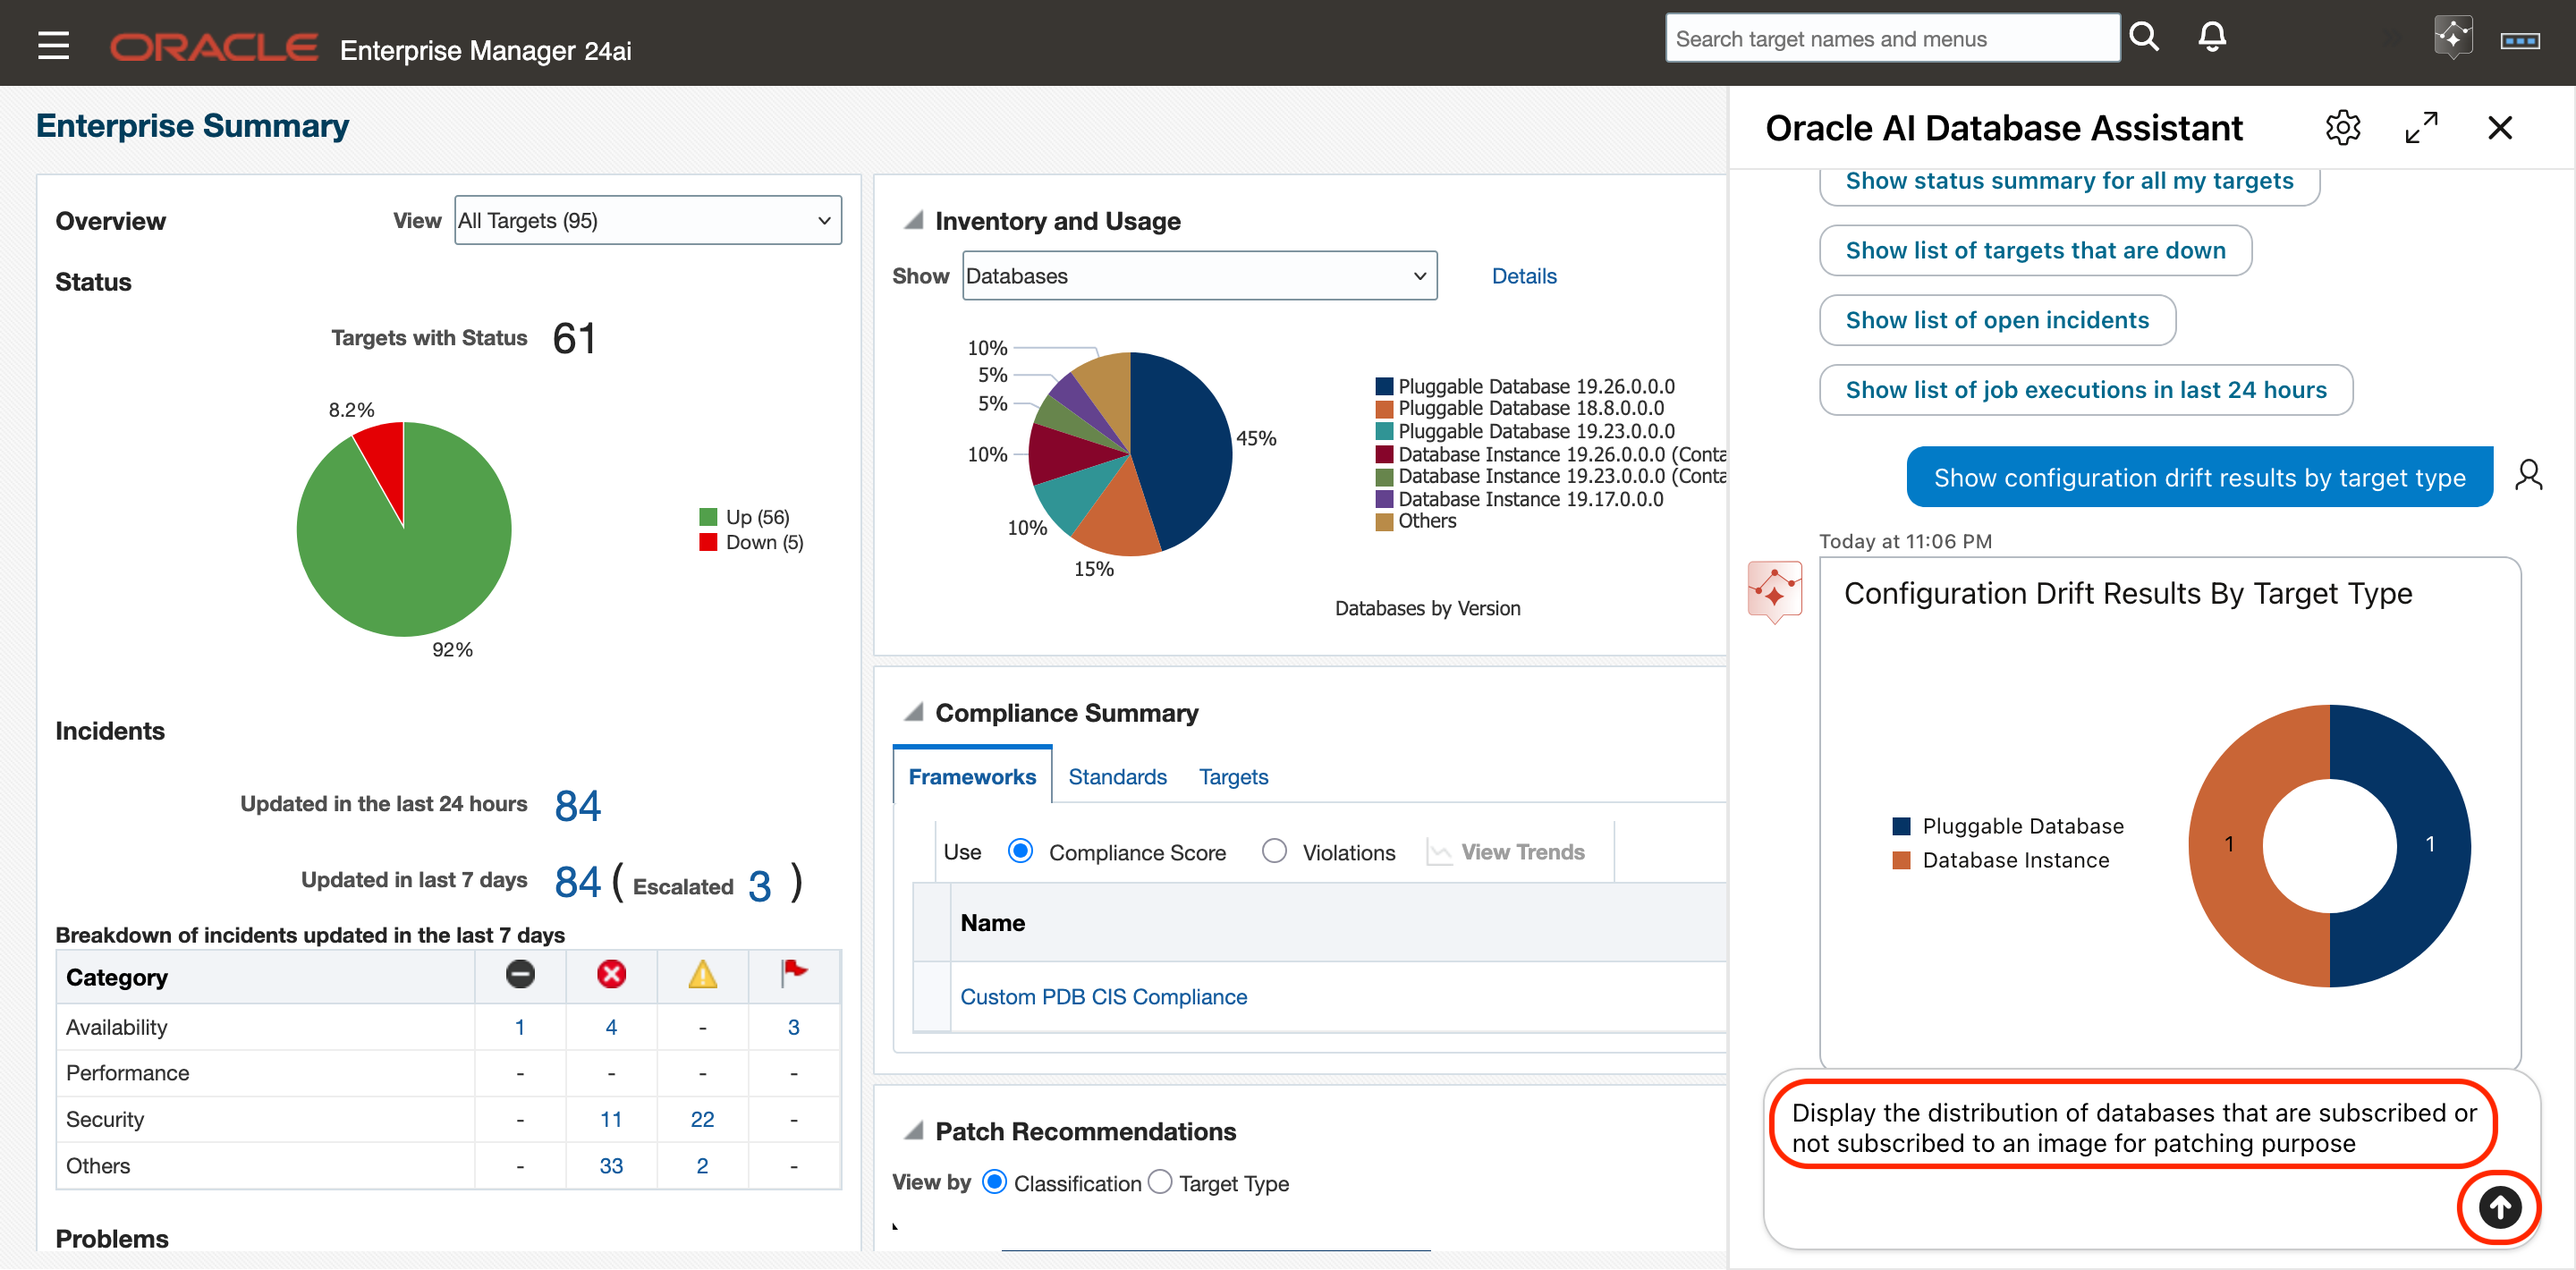
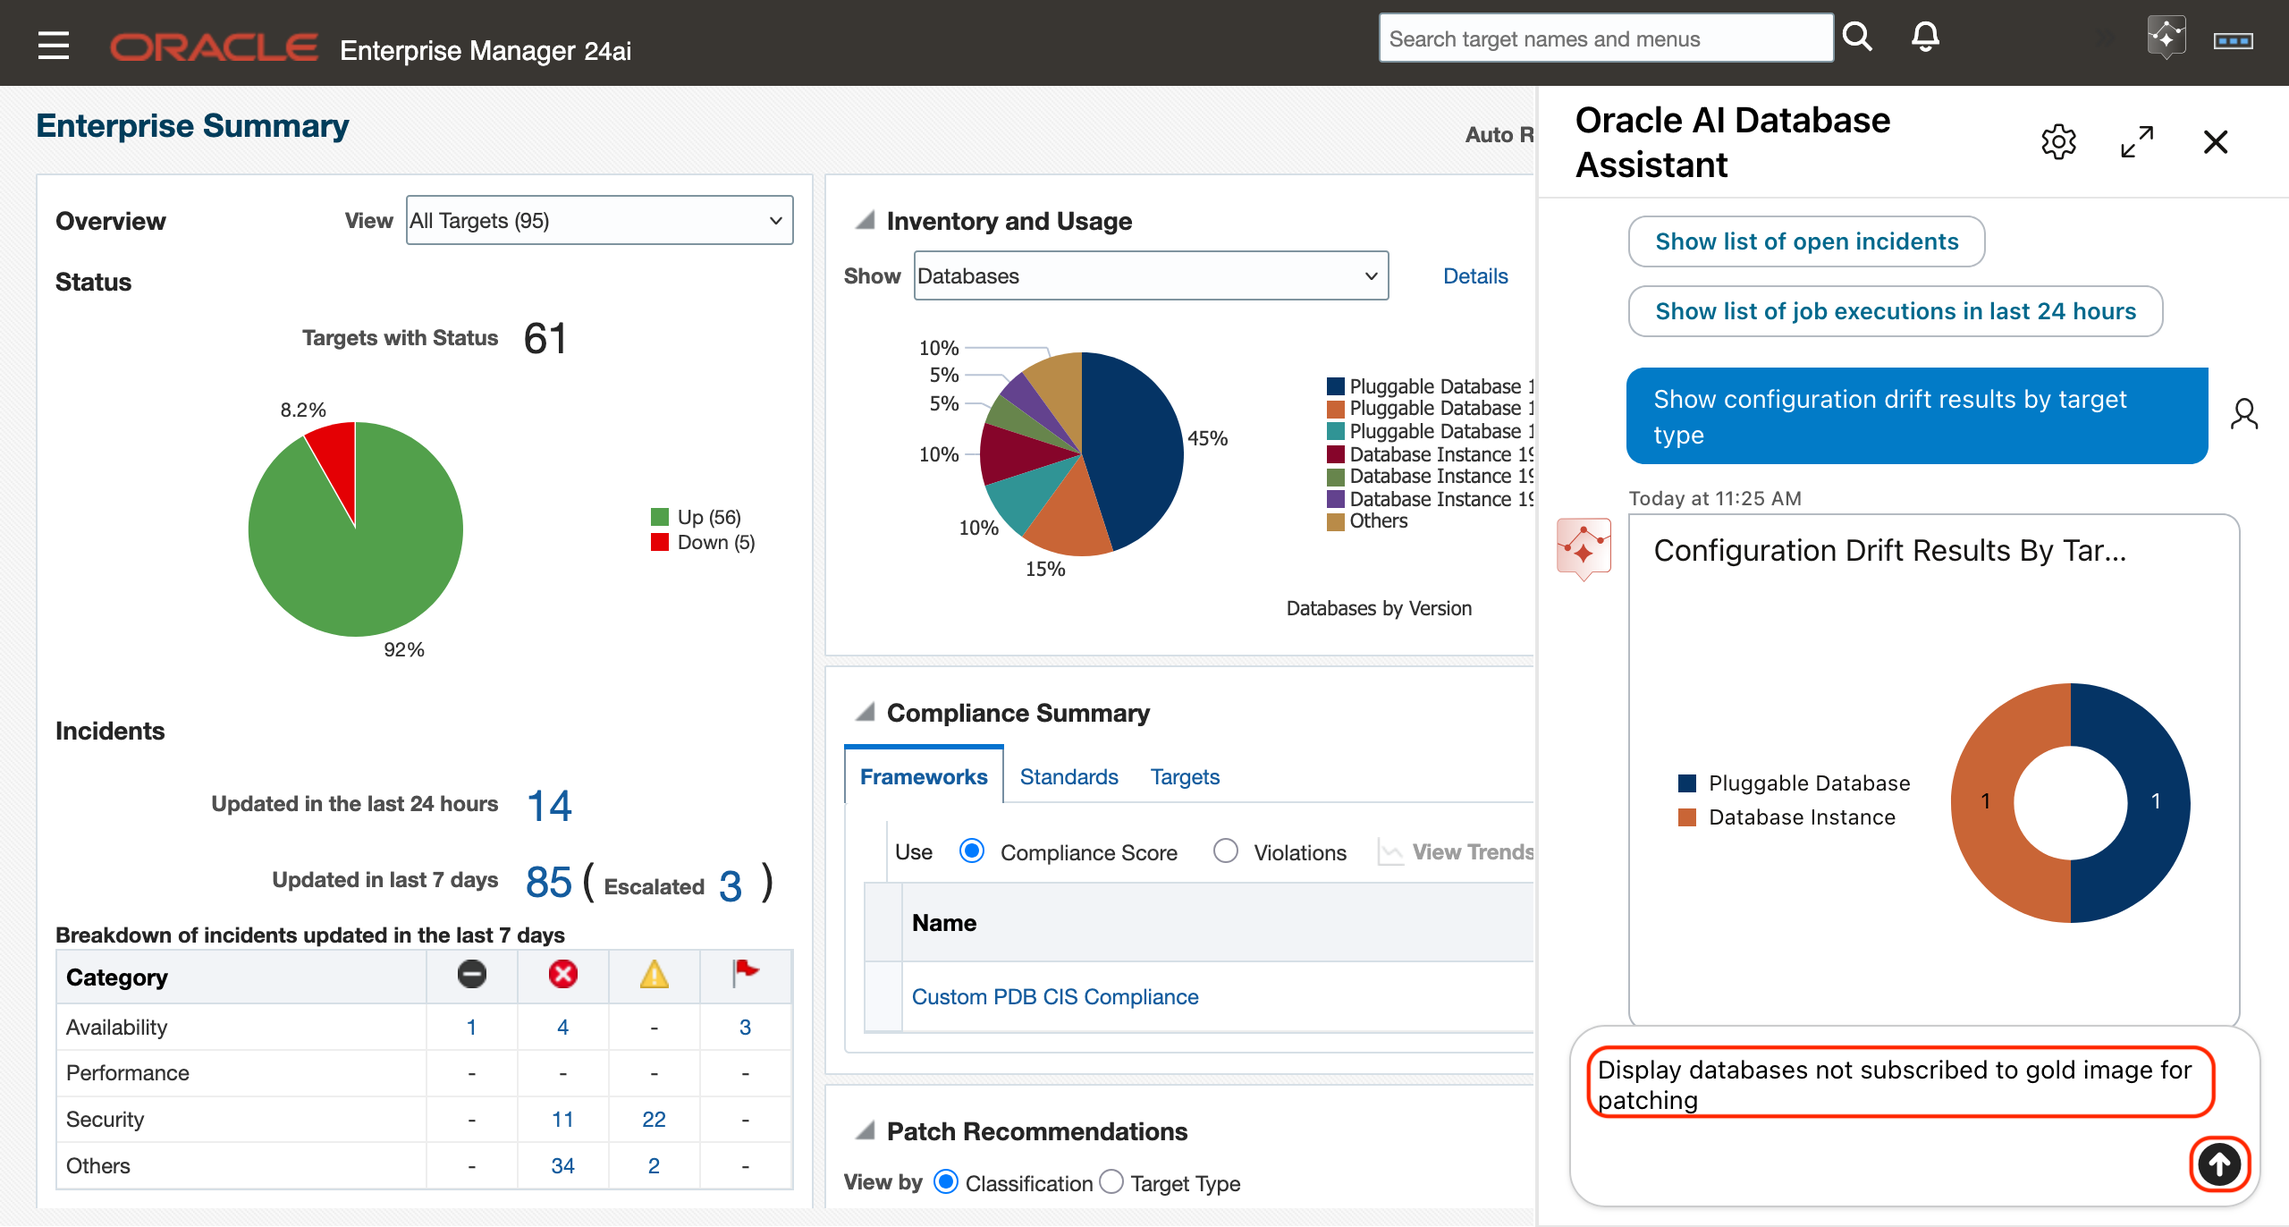
Ask EM - DBLM Lab Changes
Ask EM - DBLM Lab Changes

diff --git a/enterprise-manager/em24ai/em-monitoring-overview/ai-db-assistant-hol-ocw26.md b/enterprise-manager/em24ai/em-monitoring-overview/ai-db-assistant-hol-ocw26.md
@@ -147,71 +147,97 @@ The assistant can return rich widgets, tables, and visualizations directly withi
 
 ## Task 1B: Oracle AI Database Assistant - Database Patching and Compliance
 
-Oracle AI Database Assistant combines Enterprise Manager telemetry with Large Language Models (LLMs) to provide an intuitive conversational experience for monitoring and operational investigations. Instead of manually searching through Enterprise Manager pages, administrators can ask questions related to database patching and compliance to understand the security posture at fleet level. 
+Oracle AI Database Assistant combines Enterprise Manager telemetry with Large Language Models (LLMs) to provide an intuitive conversational experience for monitoring and operational investigations.
+
+In this task, you use the assistant to assess database fleet readiness before a patch window and verify patch compliance after patching. 
+Instead of navigating multiple Enterprise Manager pages, you ask targeted questions in the chat window and use the results to identify drift, missing image subscriptions, patch recommendations, compliance gaps, and critical violations.
+
+The prompts in these tasks are organized into two sections:
+* **Steps 1–3:** Assess patching readiness before the patch window.
+* **Steps 4–5:** Verify compliance after patching is complete.
 
 
-1. In the Oracle AI Database Assistant chat window enter **Show configuration drift results by target type** and hit `<`enter`>`:
+1. Review **configuration drift**
+
+    Configuration drift can indicate that a target no longer matches its approved configuration baseline. Review drift before patching so that you can resolve or document exceptions.
+
+    In the **Oracle AI Database Assistant chat window, enter the following prompt and press Enter:**
     ```
     <copy>
     Show configuration drift results by target type
     </copy>
     ```
 
-    Before the patch window, assess whether targets have drifted from their approved configuration baselines. Resolve or document exceptions so patching begins from a known state.
-   
     ![Configuration Drift Question](ai-db-assistant-images/ai-db-assistant-dblm/configuration-drift-question.png " ")
+
+    Review the results by target type.
     ![Configuration Drift Results](ai-db-assistant-images/ai-db-assistant-dblm/configuration-drift-results.png " ")
 
-2. Enter the prompt **Display the distribution of databases that are subscribed or not subscribed to an image for patching purpose** in the chat window and hit `<`enter`>`: 
+2. Check **database subscriptions to gold images**
 
+    Databases must be subscribed to an appropriate gold image to participate in a standardized fleet maintenance patching process. Identify databases that are not subscribed and enroll them before patching.
+
+    In the chat window, **enter the following prompt and press Enter:**
     ```
     <copy>
-    Display the distribution of databases that are subscribed or not subscribed to an image for patching purpose
+    Display databases not subscribed to gold image for patching
     </copy>
     ```
-
-    Next, confirm patching readiness. Databases not subscribed to a patching image need to be enrolled before they can participate in the standardized fleet maintenance patch process.
 
     ![Database subscriptions to the image question](ai-db-assistant-images/ai-db-assistant-dblm/db-subcription-question.png " ")
+
+    Review the distribution of subscribed and unsubscribed databases.
     ![Database subscriptions to the image result](ai-db-assistant-images/ai-db-assistant-dblm/db-subcription-result.png " ")
 
-3. Enter the prompt **Display the distribution of database images that are up-to-date or have patch recommendations** in the chat window and hit `<`enter`>`:
+3. Review **patch recommendations**
 
+    Patch recommendations are grouped by classification to help you understand the type and scope of patches required across the database fleet.
+
+    Use these recommendations to update the appropriate gold images. Create a new version of the gold image with the recommended patches so that it is ready for use during the patching cycle.
+
+    In the chat window, **enter the following prompt and press Enter:**
     ```
     <copy>
-    Display the distribution of database images that are up-to-date or have patch recommendations
+    Display the distribution of patch recommendations
     </copy>
     ```
 
-    Review the database images and identify those requiring recommended patches. Update or approve the appropriate image for patching cycle.
+    ![Database patch recommendations](ai-db-assistant-images/ai-db-assistant-dblm/db-patchrecom-question.png " ")
 
-    ![Database images question](ai-db-assistant-images/ai-db-assistant-dblm/dbimage-question.png " ")
-    ![Database images that are latest](ai-db-assistant-images/ai-db-assistant-dblm/dbimage-result.png " ")
+    Review the distribution of patch recommendations by classification.
 
-4. Enter the prompt **Display the distribution of databases that are compliant** in the chat window and hit `<`enter`>`
+    ![Database subscriptions to the image question](ai-db-assistant-images/ai-db-assistant-dblm/db-patchrecom-result.png " ")
 
+4. Review **database patch compliance** once the patching cycle completes
+
+    Evaluate the fleet after patching to confirm how many databases are patch compliant.
+
+    In the chat window, **enter the following prompt and press Enter:**
     ```
     <copy>
     Display the distribution of databases that are compliant
     </copy>
     ```
-
-    After patching completes, evaluate the database fleet patch compliance.
     ![Databases with latest patches](ai-db-assistant-images/ai-db-assistant-dblm/db-patchcomplianceqns.png " ")
-    ![Databases with latest patches](ai-db-assistant-images/ai-db-assistant-dblm/db-patchcomplianceresp.png " ")
 
-5. Enter the prompt **How many critical compliance violations exist?** in the chat window and hit `<`enter`>`:
+    Review fleet-level view of database patch compliance.
+    ![Compliance violations results](ai-db-assistant-images/ai-db-assistant-dblm/db-patchcomplianceresp.png " ")
 
+5. Review **critical compliance violations**
+
+    Review critical compliance violations after patching. These violations may identify databases or security controls that require remediation or an approved exception.
+    
+    In the chat window, **enter the following prompt and press Enter:**
     ```
     <copy>
     How many critical compliance violations exist?
     </copy>
     ```
 
-    Investigate any remaining violations to identify databases and security controls requiring remediation or approved exceptions.
+    ![Compliance violations question](ai-db-assistant-images/ai-db-assistant-dblm/db-compliance-question.png " ")
 
-     ![Compliance violations question](ai-db-assistant-images/ai-db-assistant-dblm/db-compliance-question.png " ")
-     ![Compliance violations results](ai-db-assistant-images/ai-db-assistant-dblm/db-compliance-results.png " ")
+    Review the number of critical violations and investigate the affected databases and controls.
+    ![Compliance violations results](ai-db-assistant-images/ai-db-assistant-dblm/db-compliance-results.png " ")
 
 ## Learn More
 
